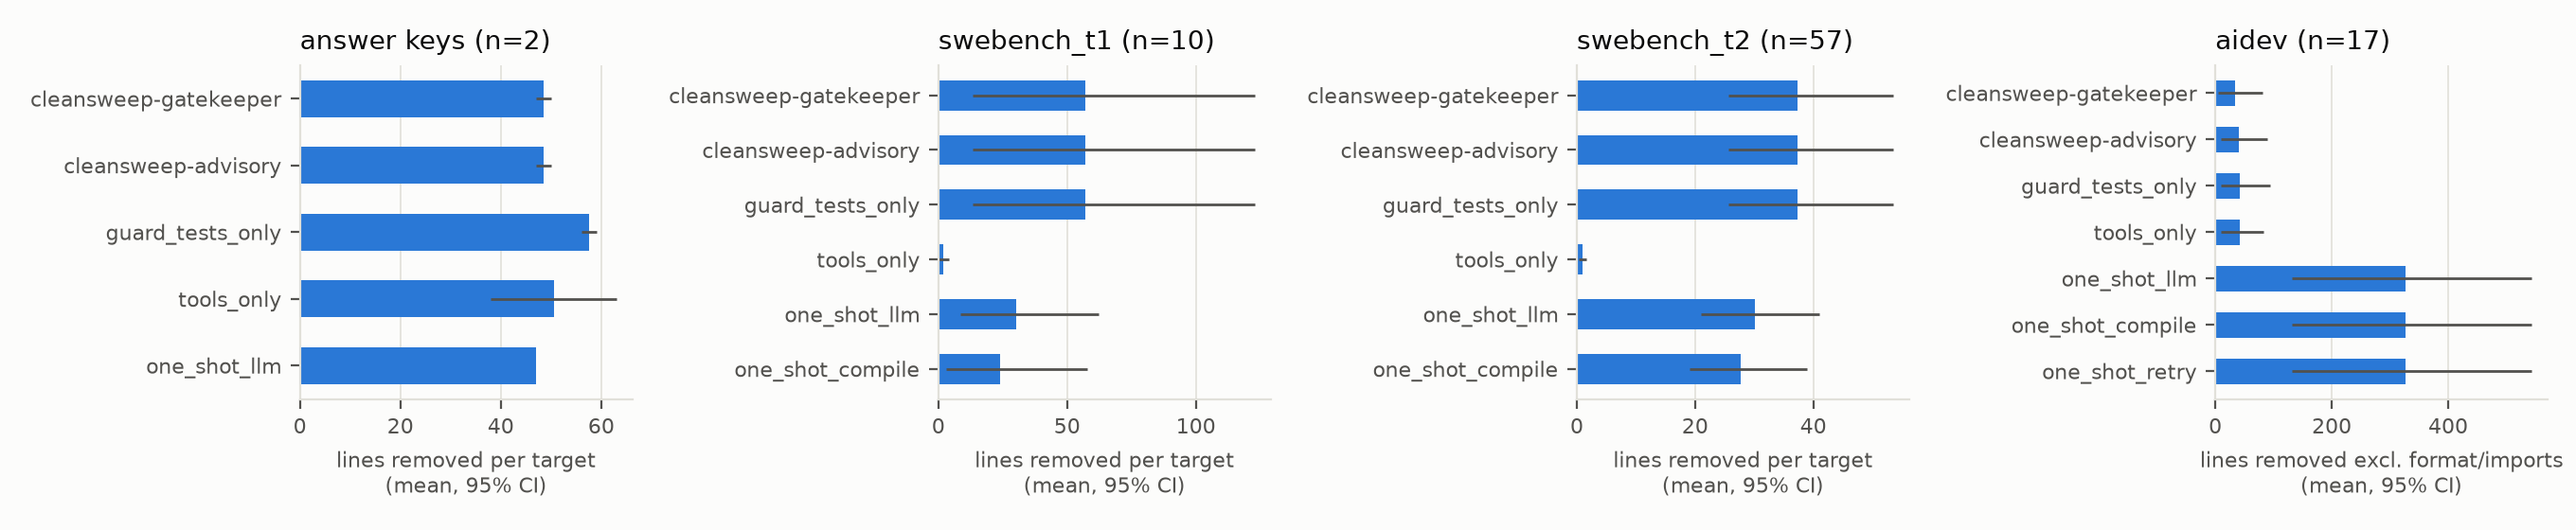
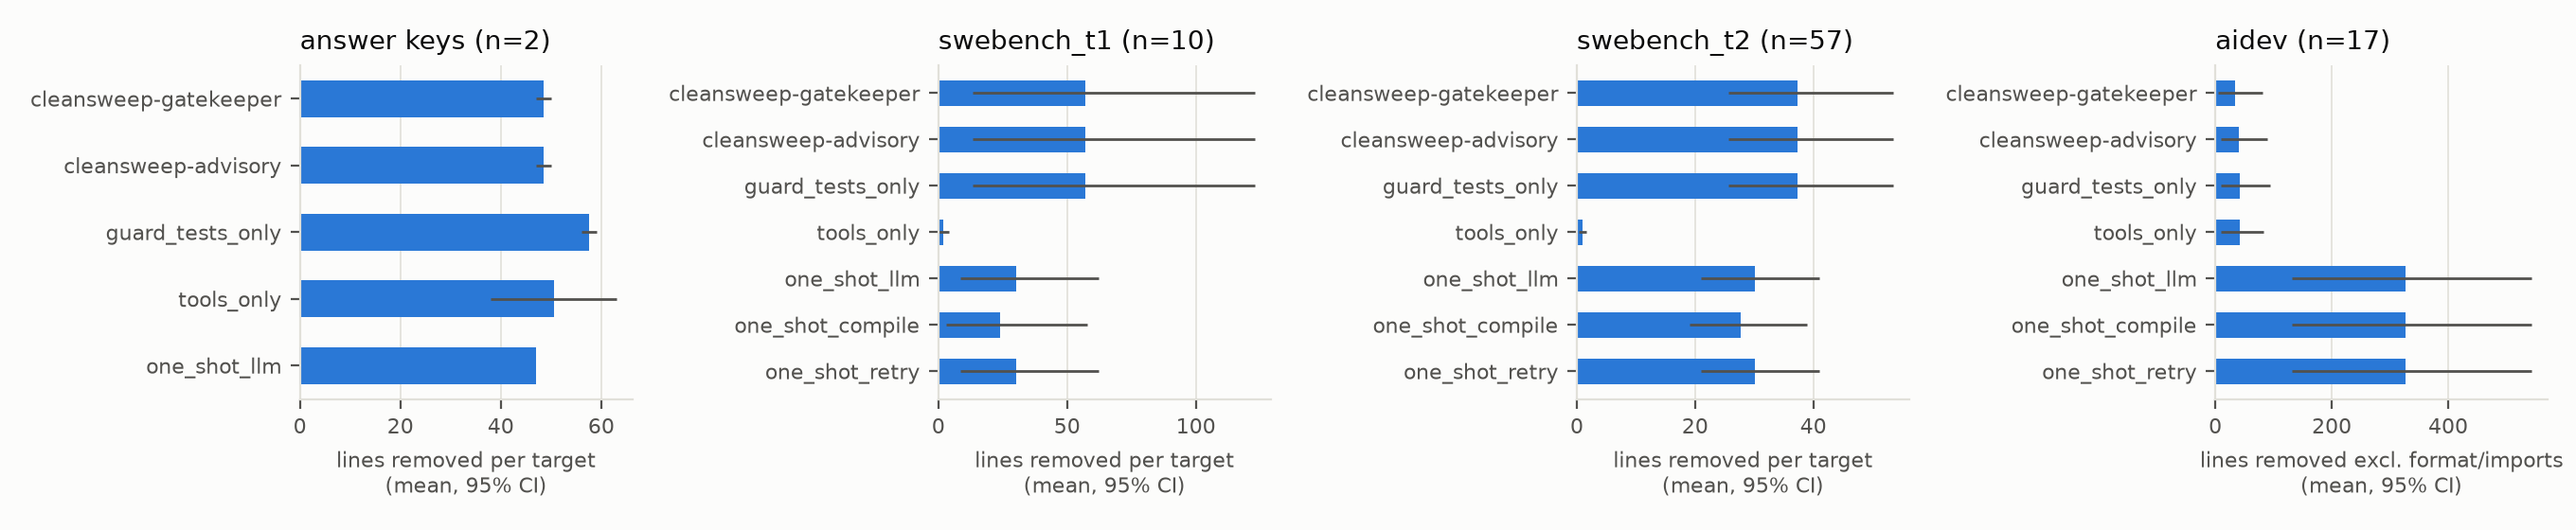
one-shot series in the tables: compile check and one retry on Tier 1, Tier 2 and AIDev

diff --git a/results/summary/main_table.md b/results/summary/main_table.md
@@ -1,26 +1,28 @@
-| target set | method | n | invalid output | flaky hidden | overload suspect | lines removed (mean, 95% CI) | lines removed excl. format/imports (mean, 95% CI) | edits (mean, 95% CI) | hidden changed (mean, 95% CI) | format edits (mean) | import edits (mean) | test runs (mean) | minutes (mean) |
-|---|---|---|---|---|---|---|---|---|---|---|---|---|---|
-| answer keys | cleansweep-gatekeeper | 2 | 0 | 0 | 0 | 48.5 [47.0, 50.0] | n/a | 7.5 [5.0, 10.0] | 0.00 [0.00, 0.00] | n/a | n/a | 4.5 | 0.1 |
-| answer keys | cleansweep-advisory | 2 | 0 | 0 | 0 | 48.5 [47.0, 50.0] | n/a | 7.5 [5.0, 10.0] | 0.00 [0.00, 0.00] | n/a | n/a | 8.0 | 0.1 |
-| answer keys | guard_tests_only | 2 | 0 | 0 | 0 | 57.5 [56.0, 59.0] | n/a | 8.5 [6.0, 11.0] | 1.00 [1.00, 1.00] | n/a | n/a | 4.5 | 0.1 |
-| answer keys | tools_only | 2 | 0 | 0 | 0 | 50.5 [38.0, 63.0] | n/a | 9.0 [7.0, 11.0] | 1.00 [1.00, 1.00] | n/a | n/a | 0.0 | 0.0 |
-| answer keys | one_shot_llm | 2 | 0 | 0 | 0 | 47.0 [47.0, 47.0] | n/a | 6.5 [5.0, 8.0] | 0.00 [0.00, 0.00] | n/a | n/a | 0.0 | 0.4 |
-| swebench_t1 | cleansweep-gatekeeper | 10 | 0 | 0 | 0 | 57.0 [13.3, 122.9] | 57.0 [13.3, 122.9] | 2.0 [0.6, 4.1] | 0.00 [0.00, 0.00] | 0.0 | 0.0 | 4.8 | 2.2 |
-| swebench_t1 | cleansweep-advisory | 10 | 0 | 0 | 0 | 57.0 [13.3, 122.9] | 57.0 [13.3, 122.9] | 2.0 [0.6, 4.1] | 0.00 [0.00, 0.00] | 0.0 | 0.0 | 4.8 | 1.8 |
-| swebench_t1 | guard_tests_only | 10 | 0 | 0 | 0 | 57.0 [13.3, 122.9] | 57.0 [13.3, 122.9] | 2.0 [0.6, 4.1] | 0.00 [0.00, 0.00] | 0.0 | 0.0 | 4.8 | 1.8 |
-| swebench_t1 | tools_only | 10 | 0 | 0 | 0 | 1.8 [0.0, 4.2] | 0.9 [0.0, 2.7] | 0.8 [0.4, 1.2] | 0.00 [0.00, 0.00] | 0.0 | 0.7 | 3.0 | 1.2 |
-| swebench_t1 | one_shot_llm | 10 | 0 | 0 | 0 | 30.2 [8.4, 62.3] | 30.2 [8.4, 62.3] | 1.7 [0.9, 2.4] | 0.30 [0.00, 0.60] | 0.0 | 0.0 | 3.0 | 2.3 |
-| swebench_t1 | one_shot_compile | 10 | 0 | 0 | 0 | 24.1 [2.9, 57.9] | 24.1 [2.9, 57.9] | 1.1 [0.4, 2.0] | 0.00 [0.00, 0.00] | 0.0 | 0.0 | 3.0 | 2.3 |
-| swebench_t2 | cleansweep-gatekeeper | 57 | 0 | 0 | 0 | 37.4 [25.7, 53.5] | 37.4 [25.7, 53.5] | 1.4 [1.0, 1.9] | 0.00 [0.00, 0.00] | 0.0 | 0.0 | 4.8 | 8.2 |
-| swebench_t2 | cleansweep-advisory | 57 | 0 | 0 | 0 | 37.4 [25.7, 53.5] | 37.4 [25.7, 53.5] | 1.4 [1.0, 1.9] | 0.00 [0.00, 0.00] | 0.0 | 0.0 | 4.8 | 3.6 |
-| swebench_t2 | guard_tests_only | 57 | 0 | 1 | 0 | 37.4 [25.7, 53.5] | 37.4 [25.7, 53.5] | 1.4 [1.0, 1.9] | 0.00 [0.00, 0.00] | 0.0 | 0.0 | 4.8 | 2.1 |
-| swebench_t2 | tools_only | 57 | 0 | 0 | 0 | 0.9 [0.4, 1.6] | 0.5 [0.1, 1.0] | 0.9 [0.8, 1.1] | 0.00 [0.00, 0.00] | 0.0 | 0.8 | 3.0 | 1.5 |
-| swebench_t2 | one_shot_llm | 57 | 0 | 0 | 0 | 30.1 [21.0, 41.0] | 30.1 [21.0, 41.0] | 1.7 [1.4, 2.0] | 0.16 [0.07, 0.26] | 0.0 | 0.0 | 3.0 | 1.9 |
-| swebench_t2 | one_shot_compile | 57 | 0 | 0 | 0 | 27.8 [19.0, 38.9] | 27.8 [19.0, 38.9] | 1.5 [1.1, 1.8] | 0.04 [0.00, 0.09] | 0.0 | 0.0 | 3.0 | 1.9 |
-| aidev | cleansweep-gatekeeper | 17 | 0 | 0 | 0 | 3.6 [0.8, 7.2] | 33.2 [5.4, 80.4] | 9.1 [3.2, 16.5] | 0.19 [0.00, 0.38] | 6.4 | 0.1 | 3.3 | 55.2 |
-| aidev | cleansweep-advisory | 17 | 0 | 0 | 0 | 10.8 [1.4, 23.5] | 40.9 [10.1, 89.6] | 9.6 [3.5, 17.1] | 0.19 [0.00, 0.38] | 6.4 | 0.1 | 4.6 | 10.2 |
-| aidev | guard_tests_only | 17 | 0 | 0 | 0 | 10.8 [1.4, 23.4] | 41.9 [10.2, 93.4] | 9.7 [3.8, 17.8] | 0.19 [0.00, 0.38] | 6.4 | 0.1 | 4.2 | 7.1 |
-| aidev | tools_only | 17 | 0 | 0 | 0 | 11.7 [0.2, 26.8] | 42.6 [9.9, 83.4] | 3.1 [1.2, 5.6] | 0.25 [0.06, 0.50] | 0.0 | 0.7 | 0.0 | 1.4 |
-| aidev | one_shot_llm | 17 | 1 | 0 | 0 | 319.1 [131.7, 531.9] | 325.9 [131.7, 543.6] | 4.1 [2.1, 6.5] | 0.13 [0.00, 0.33] | 0.0 | 0.0 | 0.0 | 3.0 |
-| aidev | one_shot_compile | 17 | 1 | 0 | 0 | 319.1 [131.7, 531.9] | 325.9 [131.7, 543.6] | 4.1 [2.1, 6.5] | 0.13 [0.00, 0.33] | 0.0 | 0.0 | 0.0 | 3.0 |
-| aidev | one_shot_retry | 17 | 1 | 0 | 0 | 319.1 [131.7, 531.9] | 325.9 [131.7, 543.6] | 4.1 [2.1, 6.5] | 0.13 [0.00, 0.33] | 0.0 | 0.0 | 0.0 | 3.0 |
+| target set | method | n | invalid output | flaky hidden | overload suspect | lines removed (mean, 95% CI) | lines removed excl. format/imports (mean, 95% CI) | edits (mean, 95% CI) | hidden changed (mean, 95% CI) | format edits (mean) | import edits (mean) | test runs (mean) | minutes (mean) | minutes (median) |
+|---|---|---|---|---|---|---|---|---|---|---|---|---|---|---|
+| answer keys | cleansweep-gatekeeper | 2 | 0 | 0 | 0 | 48.5 [47.0, 50.0] | n/a | 7.5 [5.0, 10.0] | 0.00 [0.00, 0.00] | n/a | n/a | 4.5 | 0.1 | 0.1 |
+| answer keys | cleansweep-advisory | 2 | 0 | 0 | 0 | 48.5 [47.0, 50.0] | n/a | 7.5 [5.0, 10.0] | 0.00 [0.00, 0.00] | n/a | n/a | 8.0 | 0.1 | 0.1 |
+| answer keys | guard_tests_only | 2 | 0 | 0 | 0 | 57.5 [56.0, 59.0] | n/a | 8.5 [6.0, 11.0] | 1.00 [1.00, 1.00] | n/a | n/a | 4.5 | 0.1 | 0.1 |
+| answer keys | tools_only | 2 | 0 | 0 | 0 | 50.5 [38.0, 63.0] | n/a | 9.0 [7.0, 11.0] | 1.00 [1.00, 1.00] | n/a | n/a | 0.0 | 0.0 | 0.0 |
+| answer keys | one_shot_llm | 2 | 0 | 0 | 0 | 47.0 [47.0, 47.0] | n/a | 6.5 [5.0, 8.0] | 0.00 [0.00, 0.00] | n/a | n/a | 0.0 | 0.4 | 0.4 |
+| swebench_t1 | cleansweep-gatekeeper | 10 | 0 | 0 | 0 | 57.0 [13.3, 122.9] | 57.0 [13.3, 122.9] | 2.0 [0.6, 4.1] | 0.00 [0.00, 0.00] | 0.0 | 0.0 | 4.8 | 2.2 | 1.5 |
+| swebench_t1 | cleansweep-advisory | 10 | 0 | 0 | 0 | 57.0 [13.3, 122.9] | 57.0 [13.3, 122.9] | 2.0 [0.6, 4.1] | 0.00 [0.00, 0.00] | 0.0 | 0.0 | 4.8 | 1.8 | 1.1 |
+| swebench_t1 | guard_tests_only | 10 | 0 | 0 | 0 | 57.0 [13.3, 122.9] | 57.0 [13.3, 122.9] | 2.0 [0.6, 4.1] | 0.00 [0.00, 0.00] | 0.0 | 0.0 | 4.8 | 1.8 | 1.1 |
+| swebench_t1 | tools_only | 10 | 0 | 0 | 0 | 1.8 [0.0, 4.2] | 0.9 [0.0, 2.7] | 0.8 [0.4, 1.2] | 0.00 [0.00, 0.00] | 0.0 | 0.7 | 3.0 | 1.2 | 0.5 |
+| swebench_t1 | one_shot_llm | 10 | 0 | 0 | 0 | 30.2 [8.4, 62.3] | 30.2 [8.4, 62.3] | 1.7 [0.9, 2.4] | 0.30 [0.00, 0.60] | 0.0 | 0.0 | 3.0 | 2.3 | 2.4 |
+| swebench_t1 | one_shot_compile | 10 | 0 | 0 | 0 | 24.1 [2.9, 57.9] | 24.1 [2.9, 57.9] | 1.1 [0.4, 2.0] | 0.00 [0.00, 0.00] | 0.0 | 0.0 | 3.0 | 2.3 | 2.4 |
+| swebench_t1 | one_shot_retry | 10 | 0 | 0 | 0 | 30.3 [8.5, 62.4] | 30.3 [8.5, 62.4] | 1.6 [0.9, 2.3] | 0.00 [0.00, 0.00] | 0.0 | 0.0 | 3.0 | 2.3 | 2.5 |
+| swebench_t2 | cleansweep-gatekeeper | 57 | 0 | 0 | 0 | 37.4 [25.7, 53.5] | 37.4 [25.7, 53.5] | 1.4 [1.0, 1.9] | 0.00 [0.00, 0.00] | 0.0 | 0.0 | 4.8 | 8.2 | 2.2 |
+| swebench_t2 | cleansweep-advisory | 57 | 0 | 0 | 0 | 37.4 [25.7, 53.5] | 37.4 [25.7, 53.5] | 1.4 [1.0, 1.9] | 0.00 [0.00, 0.00] | 0.0 | 0.0 | 4.8 | 3.6 | 1.3 |
+| swebench_t2 | guard_tests_only | 57 | 0 | 1 | 0 | 37.4 [25.7, 53.5] | 37.4 [25.7, 53.5] | 1.4 [1.0, 1.9] | 0.00 [0.00, 0.00] | 0.0 | 0.0 | 4.8 | 2.1 | 1.4 |
+| swebench_t2 | tools_only | 57 | 0 | 0 | 0 | 0.9 [0.4, 1.6] | 0.5 [0.1, 1.0] | 0.9 [0.8, 1.1] | 0.00 [0.00, 0.00] | 0.0 | 0.8 | 3.0 | 1.5 | 0.8 |
+| swebench_t2 | one_shot_llm | 57 | 0 | 0 | 0 | 30.1 [21.0, 41.0] | 30.1 [21.0, 41.0] | 1.7 [1.4, 2.0] | 0.16 [0.07, 0.26] | 0.0 | 0.0 | 3.0 | 1.9 | 1.4 |
+| swebench_t2 | one_shot_compile | 57 | 0 | 0 | 0 | 27.8 [19.0, 38.9] | 27.8 [19.0, 38.9] | 1.5 [1.1, 1.8] | 0.04 [0.00, 0.09] | 0.0 | 0.0 | 3.0 | 1.9 | 1.4 |
+| swebench_t2 | one_shot_retry | 57 | 0 | 0 | 0 | 30.1 [21.0, 41.0] | 30.1 [21.0, 41.0] | 1.6 [1.3, 2.0] | 0.09 [0.02, 0.18] | 0.0 | 0.0 | 3.0 | 2.0 | 1.5 |
+| aidev | cleansweep-gatekeeper | 17 | 0 | 0 | 0 | 3.6 [0.8, 7.2] | 33.2 [5.4, 80.4] | 9.1 [3.2, 16.5] | 0.19 [0.00, 0.38] | 6.4 | 0.1 | 3.3 | 55.2 | 49.2 |
+| aidev | cleansweep-advisory | 17 | 0 | 0 | 0 | 10.8 [1.4, 23.5] | 40.9 [10.1, 89.6] | 9.6 [3.5, 17.1] | 0.19 [0.00, 0.38] | 6.4 | 0.1 | 4.6 | 10.2 | 6.5 |
+| aidev | guard_tests_only | 17 | 0 | 0 | 0 | 10.8 [1.4, 23.4] | 41.9 [10.2, 93.4] | 9.7 [3.8, 17.8] | 0.19 [0.00, 0.38] | 6.4 | 0.1 | 4.2 | 7.1 | 3.9 |
+| aidev | tools_only | 17 | 0 | 0 | 0 | 11.7 [0.2, 26.8] | 42.6 [9.9, 83.4] | 3.1 [1.2, 5.6] | 0.25 [0.06, 0.50] | 0.0 | 0.7 | 0.0 | 1.4 | 1.0 |
+| aidev | one_shot_llm | 17 | 1 | 0 | 0 | 319.1 [131.7, 531.9] | 325.9 [131.7, 543.6] | 4.1 [2.1, 6.5] | 0.13 [0.00, 0.33] | 0.0 | 0.0 | 0.0 | 3.0 | 2.3 |
+| aidev | one_shot_compile | 17 | 1 | 0 | 0 | 319.1 [131.7, 531.9] | 325.9 [131.7, 543.6] | 4.1 [2.1, 6.5] | 0.13 [0.00, 0.33] | 0.0 | 0.0 | 0.0 | 3.0 | 2.3 |
+| aidev | one_shot_retry | 17 | 1 | 0 | 0 | 319.1 [131.7, 531.9] | 325.9 [131.7, 543.6] | 4.1 [2.1, 6.5] | 0.13 [0.00, 0.33] | 0.0 | 0.0 | 0.0 | 3.0 | 2.3 |

diff --git a/README.md b/README.md
@@ -258,6 +258,7 @@ What happened:
   - The model rewrites the agent's changed source files, and nothing checks the result.
 - **`tools_only`** removes 0.9 lines per patch (unused imports) and changes nothing hidden.
 - **`one_shot_compile`** (the same diff, discarded when a rewritten file doesn't compile; no extra LLM call) changes hidden behavior on **2 of 57** (McNemar p = 0.5) and removes 27.8 lines per patch (Wilcoxon p = 0.087).
+- **`one_shot_retry`** (the compile errors go back to the model once, and the second reply is applied) changes hidden behavior on **5 of 57** (p = 0.063) at 30.1 lines per patch. The second reply compiled for the 4 sympy and scikit-learn patches but not for the 3 sphinx ones (`results/raw/oneshot_retry/` in the runs-6 clone; 1 new LLM request each, the first reply came from the cache).
 - **Minutes per patch (median):** gatekeeper 2.2, advisory 1.3, `guard_tests_only` 1.4, `tools_only` 0.8, `one_shot_llm` 1.4. Medians, because one Django gatekeeper run took 197 minutes while the laptop slept (mean 8.2).
 
 ### Main table
@@ -268,23 +269,27 @@ left out of the means and counted apart (there were none). Flaky hidden = hidden
 another method's identical edits did not repeat; they are left out of the hidden-changed mean.
 `scripts/exp_collect.py` then `scripts/exp_tables.py`; files in `results/summary/`.
 
-| target set | method | n | lines removed | edits | hidden changed | flaky hidden | test runs | minutes |
+| target set | method | n | lines removed | edits | hidden changed | flaky hidden | test runs | minutes (median) |
 |---|---|---|---|---|---|---|---|---|
 | answer keys | cleansweep, gatekeeper | 2 | 48.5 [47.0, 50.0] | 7.5 [5.0, 10.0] | 0.00 [0.00, 0.00] | 0 | 4.5 | 0.1 |
 | answer keys | cleansweep, advisory | 2 | 48.5 [47.0, 50.0] | 7.5 [5.0, 10.0] | 0.00 [0.00, 0.00] | 0 | 8.0 | 0.1 |
 | answer keys | `guard_tests_only` | 2 | 57.5 [56.0, 59.0] | 8.5 [6.0, 11.0] | 1.00 [1.00, 1.00] | 0 | 4.5 | 0.1 |
 | answer keys | `tools_only` | 2 | 50.5 [38.0, 63.0] | 9.0 [7.0, 11.0] | 1.00 [1.00, 1.00] | 0 | 0.0 | 0.0 |
 | answer keys | `one_shot_llm` | 2 | 47.0 [47.0, 47.0] | 6.5 [5.0, 8.0] | 0.00 [0.00, 0.00] | 0 | 0.0 | 0.4 |
-| SWE-bench Tier 1 | cleansweep, gatekeeper | 10 | 57.0 [13.3, 122.9] | 2.0 [0.6, 4.1] | 0.00 [0.00, 0.00] | 0 | 4.8 | 2.2 |
-| SWE-bench Tier 1 | cleansweep, advisory | 10 | 57.0 [13.3, 122.9] | 2.0 [0.6, 4.1] | 0.00 [0.00, 0.00] | 0 | 4.8 | 1.8 |
-| SWE-bench Tier 1 | `guard_tests_only` | 10 | 57.0 [13.3, 122.9] | 2.0 [0.6, 4.1] | 0.00 [0.00, 0.00] | 0 | 4.8 | 1.8 |
-| SWE-bench Tier 1 | `tools_only` | 10 | 1.8 [0.0, 4.2] | 0.8 [0.4, 1.2] | 0.00 [0.00, 0.00] | 0 | 3.0 | 1.2 |
-| SWE-bench Tier 1 | `one_shot_llm` | 10 | 30.2 [8.4, 62.3] | 1.7 [0.9, 2.4] | 0.30 [0.00, 0.60] | 0 | 3.0 | 2.3 |
-| SWE-bench Tier 2 | cleansweep, gatekeeper | 57 | 37.4 [25.7, 53.5] | 1.4 [1.0, 1.9] | 0.00 [0.00, 0.00] | 0 | 4.8 | 8.2 |
-| SWE-bench Tier 2 | cleansweep, advisory | 57 | 37.4 [25.7, 53.5] | 1.4 [1.0, 1.9] | 0.00 [0.00, 0.00] | 0 | 4.8 | 3.6 |
-| SWE-bench Tier 2 | `guard_tests_only` | 57 | 37.4 [25.7, 53.5] | 1.4 [1.0, 1.9] | 0.00 [0.00, 0.00] | 1 | 4.8 | 2.1 |
-| SWE-bench Tier 2 | `tools_only` | 57 | 0.9 [0.4, 1.6] | 0.9 [0.8, 1.1] | 0.00 [0.00, 0.00] | 0 | 3.0 | 1.5 |
-| SWE-bench Tier 2 | `one_shot_llm` | 57 | 30.1 [21.0, 41.0] | 1.7 [1.4, 2.0] | **0.16 [0.07, 0.26]** | 0 | 3.0 | 1.9 |
+| SWE-bench Tier 1 | cleansweep, gatekeeper | 10 | 57.0 [13.3, 122.9] | 2.0 [0.6, 4.1] | 0.00 [0.00, 0.00] | 0 | 4.8 | 1.5 |
+| SWE-bench Tier 1 | cleansweep, advisory | 10 | 57.0 [13.3, 122.9] | 2.0 [0.6, 4.1] | 0.00 [0.00, 0.00] | 0 | 4.8 | 1.1 |
+| SWE-bench Tier 1 | `guard_tests_only` | 10 | 57.0 [13.3, 122.9] | 2.0 [0.6, 4.1] | 0.00 [0.00, 0.00] | 0 | 4.8 | 1.1 |
+| SWE-bench Tier 1 | `tools_only` | 10 | 1.8 [0.0, 4.2] | 0.8 [0.4, 1.2] | 0.00 [0.00, 0.00] | 0 | 3.0 | 0.5 |
+| SWE-bench Tier 1 | `one_shot_llm` | 10 | 30.2 [8.4, 62.3] | 1.7 [0.9, 2.4] | 0.30 [0.00, 0.60] | 0 | 3.0 | 2.4 |
+| SWE-bench Tier 1 | `one_shot_compile` | 10 | 24.1 [2.9, 57.9] | 1.1 [0.4, 2.0] | 0.00 [0.00, 0.00] | 0 | 3.0 | 2.4 |
+| SWE-bench Tier 1 | `one_shot_retry` | 10 | 30.3 [8.5, 62.4] | 1.6 [0.9, 2.3] | 0.00 [0.00, 0.00] | 0 | 3.0 | 2.5 |
+| SWE-bench Tier 2 | cleansweep, gatekeeper | 57 | 37.4 [25.7, 53.5] | 1.4 [1.0, 1.9] | 0.00 [0.00, 0.00] | 0 | 4.8 | 2.2 |
+| SWE-bench Tier 2 | cleansweep, advisory | 57 | 37.4 [25.7, 53.5] | 1.4 [1.0, 1.9] | 0.00 [0.00, 0.00] | 0 | 4.8 | 1.3 |
+| SWE-bench Tier 2 | `guard_tests_only` | 57 | 37.4 [25.7, 53.5] | 1.4 [1.0, 1.9] | 0.00 [0.00, 0.00] | 1 | 4.8 | 1.4 |
+| SWE-bench Tier 2 | `tools_only` | 57 | 0.9 [0.4, 1.6] | 0.9 [0.8, 1.1] | 0.00 [0.00, 0.00] | 0 | 3.0 | 0.8 |
+| SWE-bench Tier 2 | `one_shot_llm` | 57 | 30.1 [21.0, 41.0] | 1.7 [1.4, 2.0] | **0.16 [0.07, 0.26]** | 0 | 3.0 | 1.4 |
+| SWE-bench Tier 2 | `one_shot_compile` | 57 | 27.8 [19.0, 38.9] | 1.5 [1.1, 1.8] | 0.04 [0.00, 0.09] | 0 | 3.0 | 1.4 |
+| SWE-bench Tier 2 | `one_shot_retry` | 57 | 30.1 [21.0, 41.0] | 1.6 [1.3, 2.0] | 0.09 [0.02, 0.18] | 0 | 3.0 | 1.5 |
 
 `results/figures/safety_vs_yield.png` plots lines removed against the hidden-change rate per
 method, with 95% CIs.
@@ -292,6 +297,7 @@ method, with 95% CIs.
 Paired against cleansweep in gatekeeper mode on SWE-bench (`paired_tests.md`):
 - **Hidden changes:**
   - only `one_shot_llm` differs: 9 vs. 0 on Tier 2 (exact McNemar p = 0.0039) and 3 vs. 0 on Tier 1 (p = 0.25);
+  - `one_shot_compile`: 2 vs. 0 on Tier 2 (p = 0.5), 0 vs. 0 on Tier 1; `one_shot_retry`: 5 vs. 0 (p = 0.063), 0 vs. 0;
   - advisory, `guard_tests_only` and `tools_only`: p = 1.0.
 - **Lines removed:**
   - `tools_only` removes fewer (Wilcoxon p = 0.016 on Tier 1, p < 0.001 on Tier 2);

diff --git a/results/summary/paired_tests.md b/results/summary/paired_tests.md
@@ -5,11 +5,13 @@
 | swebench_t1 | tools_only | 10 | 0 | 0 | 1.0 | lines removed per target | 0.0 | 0.0156 |
 | swebench_t1 | one_shot_llm | 10 | 3 | 0 | 0.25 | lines removed per target | 4.0 | 0.5 |
 | swebench_t1 | one_shot_compile | 10 | 0 | 0 | 1.0 | lines removed per target | 1.0 | 0.125 |
+| swebench_t1 | one_shot_retry | 10 | 0 | 0 | 1.0 | lines removed per target | 3.0 | 0.625 |
 | swebench_t2 | cleansweep-advisory | 57 | 0 | 0 | 1.0 | lines removed per target | 0.0 | 1.0 |
 | swebench_t2 | guard_tests_only | 57 | 0 | 0 | 1.0 | lines removed per target | 0.0 | 1.0 |
 | swebench_t2 | tools_only | 57 | 0 | 0 | 1.0 | lines removed per target | 1.5 | 0.0 |
 | swebench_t2 | one_shot_llm | 57 | 9 | 0 | 0.0039 | lines removed per target | 244.0 | 0.7049 |
 | swebench_t2 | one_shot_compile | 57 | 2 | 0 | 0.5 | lines removed per target | 139.0 | 0.0869 |
+| swebench_t2 | one_shot_retry | 57 | 5 | 0 | 0.0625 | lines removed per target | 230.5 | 0.7287 |
 | aidev | cleansweep-advisory | 17 | 0 | 0 | 1.0 | lines removed excl. format/imports | 0.0 | 0.1088 |
 | aidev | guard_tests_only | 17 | 0 | 0 | 1.0 | lines removed excl. format/imports | 0.0 | 0.0679 |
 | aidev | tools_only | 17 | 1 | 0 | 1.0 | lines removed excl. format/imports | 14.0 | 0.3139 |
